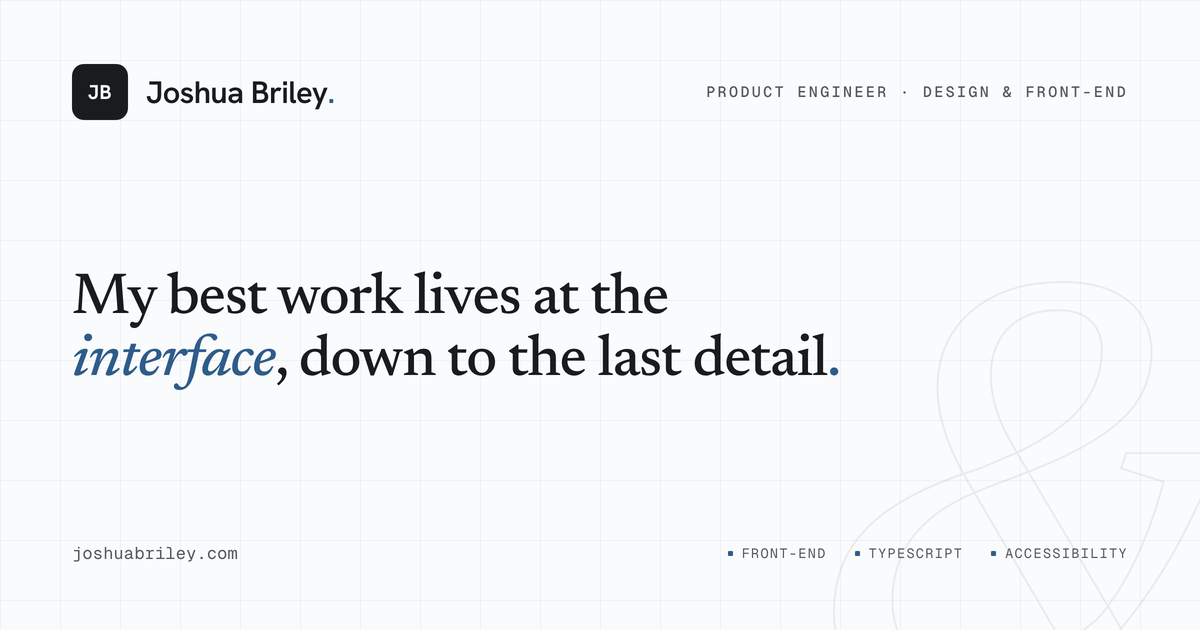
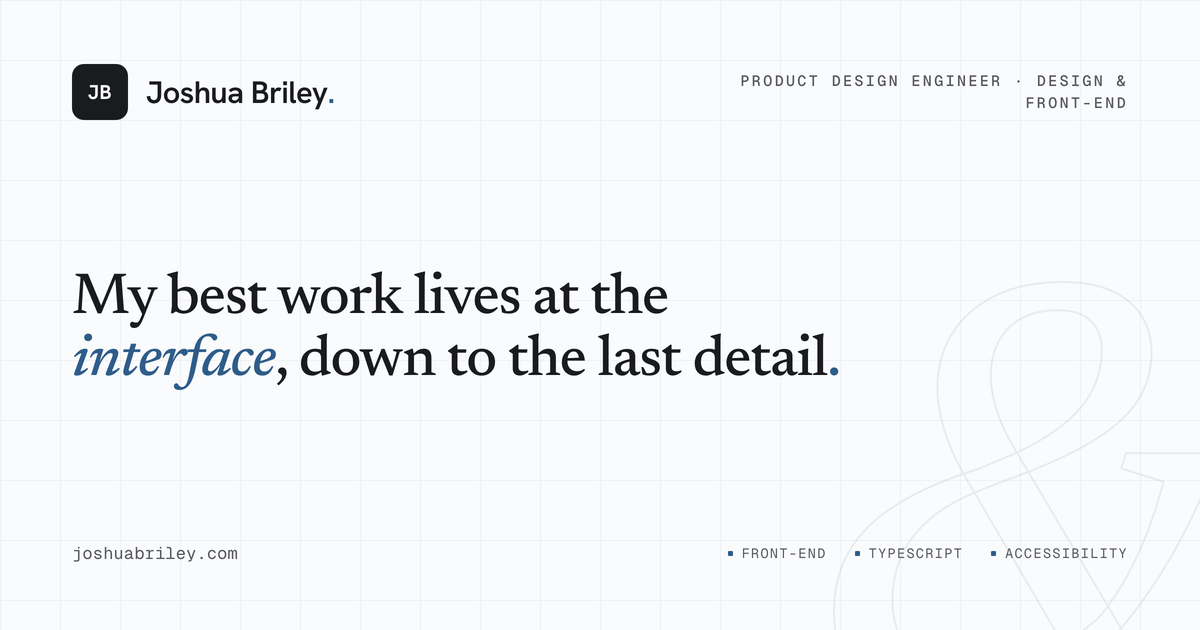
resume updates and color updates.

Changed region(s): [[0.5858, 0.1206, 0.9558, 0.181]]

diff --git a/src/content.config.ts b/src/content.config.ts
@@ -44,7 +44,7 @@ const posts = defineCollection({
     readMinutes: z.number(),
     /** Iconify name for the gradient hero block on the index card. */
     icon: z.string(),
-    /** Tailwind classes for the index card's gradient block (e.g. "from-peach via-lemon/70 to-coral/30"). */
+    /** Tailwind classes for the index card's gradient block (e.g. "from-lemon via-coral/40 to-sky/30"). */
     gradient: z.string(),
     /** Tone applied to the corner sticker on the index card. */
     sticker: z.enum(['coral', 'plum', 'sage', 'sky', 'sunset', 'lemon']),

diff --git a/src/styles/site.css b/src/styles/site.css
@@ -11,6 +11,10 @@
 :root {
   --paper: #fafbfc;
   --raised: #ffffff;
+  /* Warm paper — the "about me" surface. Reserved for sections whose content is
+     personal (author bios, personal projects, first-person intros), so the
+     warmth reads as an intentional voice, not a stray tint. */
+  --surface-warm: #f7f5f0;
   --ink: #1a1b1e;
   --ink-muted: #565760;
   --ink-faint: #9a9aa1;

diff --git a/src/lib/tones.ts b/src/lib/tones.ts
@@ -14,7 +14,6 @@ export const TONES = [
   'navy',
   'sky',
   'lemon',
-  'peach',
   'cream',
 ] as const;
 
